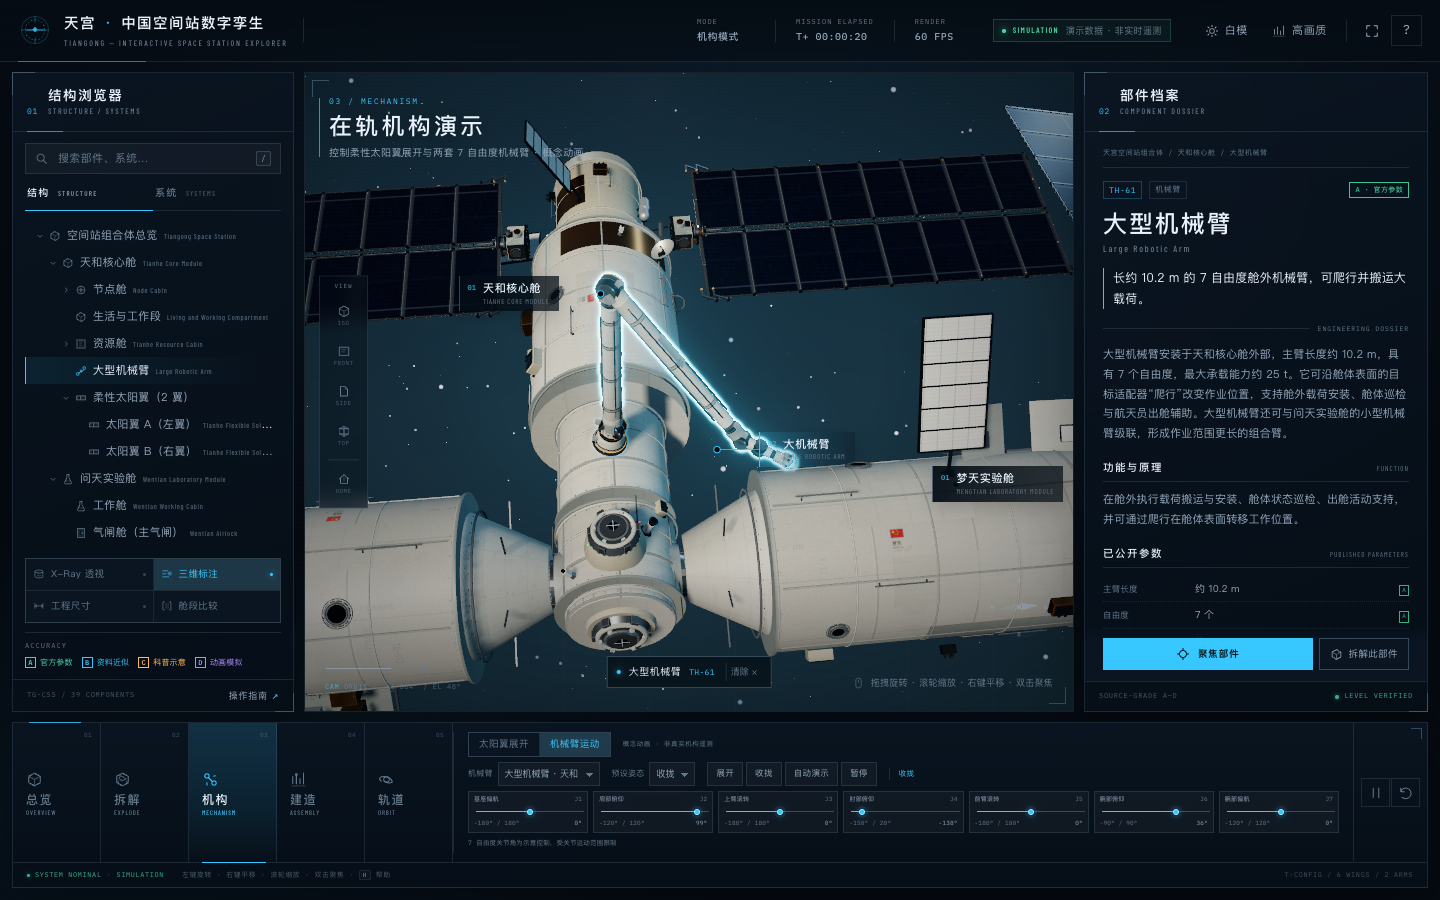
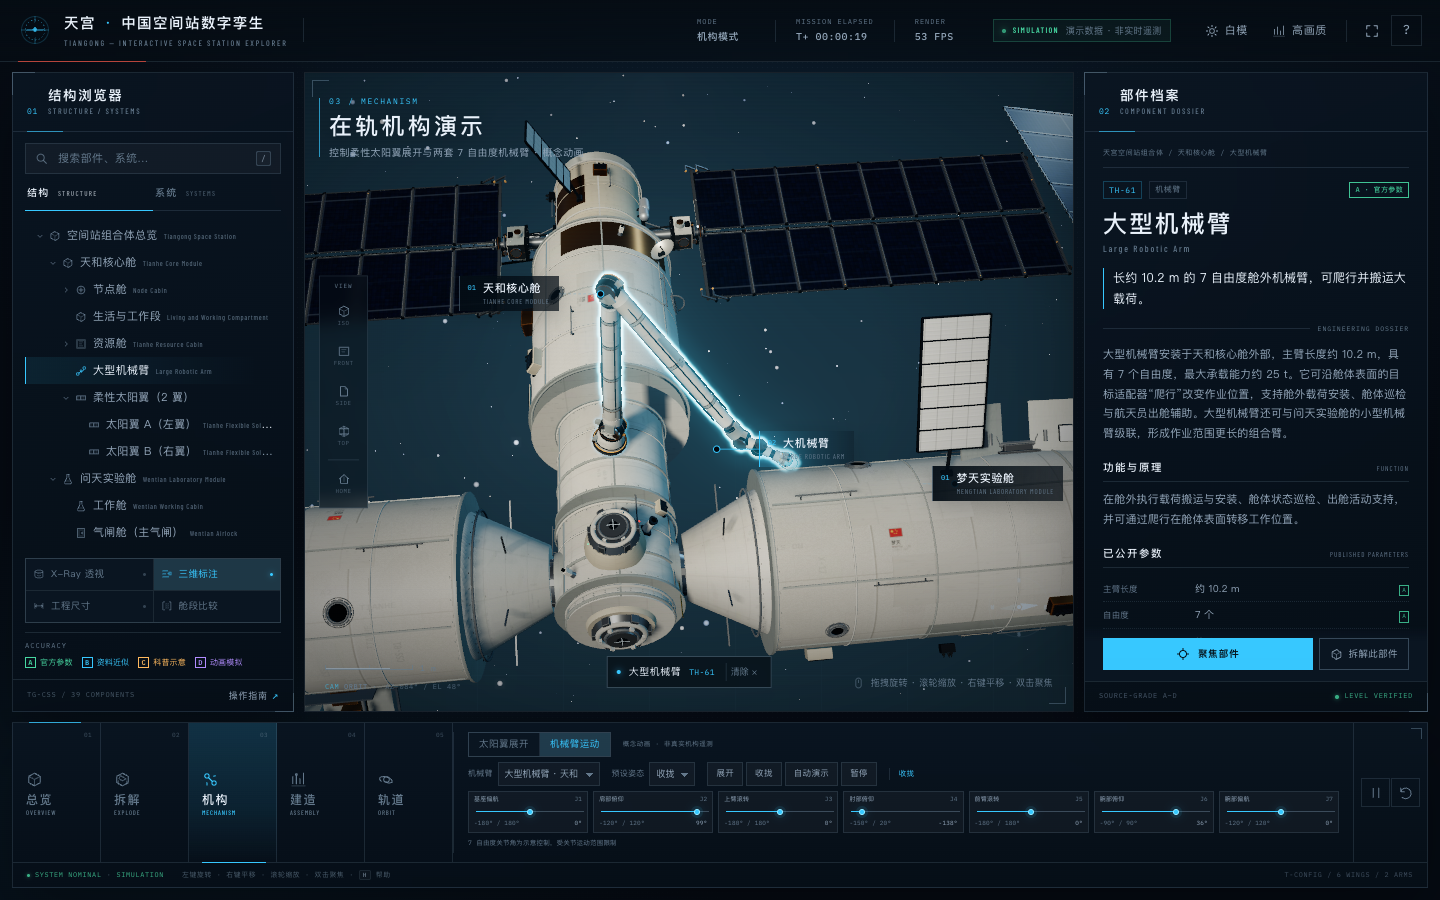
Fix structural attachment of all solar wings and other externally mounted assemblies

diff --git a/app.js b/app.js
@@ -26258,6 +26258,17 @@ void main() {
     const frameMat = metal(trim);
     const platform = new Group();
     platform.position.z = 0.45;
+    for (const sx of [-1, 1]) for (const sz of [-1, 1]) {
+      g.add(mesh(cylGeo(0.042, 0.052, 0.46, 8), frameMat, {
+        pos: [sx * width * 0.33, sz * length * 0.3, 0.23],
+        rot: [Math.PI / 2, 0, 0]
+      }));
+      g.add(mesh(boxGeo(0.12, 0.12, 0.035), frameMat, {
+        pos: [sx * width * 0.33, sz * length * 0.3, 0.02]
+      }));
+    }
+    g.add(mesh(boxGeo(width * 0.82, length * 0.64, 0.035), frameMat, { pos: [0, 0, 0.02] }));
+    g.add(mesh(cylGeo(0.07, 0.07, 0.18, 10), gold, { pos: [0, 0, 0.12], rot: [Math.PI / 2, 0, 0] }));
     for (const sx of [-1, 1]) {
       for (const sz of [-1, 1]) {
         platform.add(mesh(boxGeo(0.055, 0.055, length), frameMat, { pos: [sx * width / 2, 0, sz * length / 2] }));
@@ -26294,7 +26305,10 @@ void main() {
   function addDeployablePlatform(parent, { theta = 0, z = 0, radius = 2.1, material, trim }) {
     const g = new Group();
     orientOnCylinder(g, theta, z, radius, 0.02);
-    const hinge = mesh(cylGeo(0.07, 0.07, 0.6, 10), metal(trim), { rot: [0, 0, Math.PI / 2] });
+    g.add(mesh(roundedBoxGeo(1, 0.5, 0.06, 0.02), metal(trim), { pos: [0, 0, 0.01] }));
+    g.add(mesh(roundedBoxGeo(0.7, 0.3, 0.18, 0.02), metal(trim), { pos: [0, 0, 0.1] }));
+    const hinge = mesh(cylGeo(0.07, 0.07, 0.9, 10), metal(trim), { rot: [0, 0, Math.PI / 2] });
+    hinge.position.z = 0.18;
     g.add(hinge);
     for (const side of [-1, 1]) {
       const arm = new Group();
@@ -26302,6 +26316,9 @@ void main() {
       arm.position.x = side * 0.35;
       const panel = mesh(boxGeo(1.25, 0.05, 1.55), material, { pos: [side * 0.62, 0, 0.42] });
       arm.add(panel);
+      arm.add(cylinderBetween(new Vector3(0, 0, 0), new Vector3(side * 0.18, 0, 0.4), 0.03, metal(trim), 8));
+      arm.add(cylinderBetween(new Vector3(0, 0, 0), new Vector3(side * 0.86, 0, 0.4), 0.026, metal(trim), 8));
+      arm.add(mesh(cylGeo(0.055, 0.055, 0.28, 9), metal(trim), { pos: [side * 0.35, 0, 0.35], rot: [Math.PI / 2, 0, 0] }));
       for (let i = 0; i < 3; i++) {
         arm.add(mesh(boxGeo(1.2, 0.035, 0.03), metal(trim), { pos: [side * 0.62, 0, 0.05 + i * 0.4] }));
       }
@@ -28320,20 +28337,67 @@ void main() {
     wrapper.position.copy(position);
     wrapper.rotation.y = rotationY;
     parent.add(wrapper);
-    const boomDir = side;
-    const boom = mesh(cylGeo(0.075, 0.09, 1.05, 10), materials.metal, {
-      pos: [boomDir * 0.05, 0, 0],
-      rot: [0, 0, Math.PI / 2]
-    });
-    boom.rotation.z = 0;
-    boom.position.set(-boomDir * 0.45, 0, 0);
-    wrapper.add(boom);
-    for (const sy of [-1, 1]) {
-      wrapper.add(mesh(cylGeo(0.022, 0.026, 0.55, 8), materials.metalDark, {
-        pos: [-boomDir * 0.5, sy * 0.24, 0],
-        rot: [0, 0, Math.PI / 2 + sy * 0.25]
+    const sx = Math.sign(position.x) || 1;
+    const supportY = position.y;
+    const supportZ = position.z;
+    const hullX = sx * 1.36;
+    const rootX = sx * 2.4;
+    const support = new Group();
+    support.name = `solar-array-support-${side > 0 ? "A" : "B"}`;
+    parent.add(support);
+    support.add(mesh(boxGeo(0.16, 0.62, 0.9), materials.metalDark, {
+      pos: [sx * 1.4, supportY, supportZ],
+      rot: [0, 0, 0]
+    }));
+    support.add(mesh(roundedBoxGeo(0.055, 0.44, 0.66, 0.02), materials.gold, {
+      pos: [sx * 1.475, supportY, supportZ]
+    }));
+    for (const zy of [-0.28, 0.28]) {
+      support.add(mesh(cylGeo(0.024, 0.024, 0.055, 8), materials.metal, {
+        pos: [sx * 1.5, supportY + zy, supportZ],
+        rot: [0, 0, Math.PI / 2]
       }));
     }
+    const hubMidX = sx * ((Math.abs(hullX) + Math.abs(rootX)) / 2);
+    support.add(mesh(cylGeo(0.13, 0.17, Math.abs(rootX - hullX), 14), materials.metal, {
+      pos: [hubMidX, supportY, supportZ],
+      rot: [0, 0, Math.PI / 2]
+    }));
+    for (const dz of [-0.35, 0.35]) {
+      support.add(cylinderBetween(
+        new Vector3(hullX, supportY + 0.03, supportZ + dz * 0.82),
+        new Vector3(rootX, supportY + 0.05, supportZ + dz),
+        0.032,
+        materials.metalDark,
+        8
+      ));
+    }
+    for (const dz of [-0.42, 0.42]) {
+      support.add(cylinderBetween(
+        new Vector3(hullX, supportY + 0.28, supportZ + dz),
+        new Vector3(rootX, supportY - 0.12, supportZ + dz * 0.6),
+        0.026,
+        materials.metal,
+        8
+      ));
+    }
+    support.add(mesh(boxGeo(0.32, 0.5, 0.6), materials.metalDark, {
+      pos: [rootX + sx * 0.03, supportY, supportZ]
+    }));
+    support.add(mesh(cylGeo(0.24, 0.24, 0.16, 20), materials.metal, {
+      pos: [rootX + sx * 0.04, supportY, supportZ],
+      rot: [0, 0, Math.PI / 2]
+    }));
+    support.add(mesh(torusGeo(0.245, 0.022, 6, 24), materials.gold, {
+      pos: [rootX + sx * 0.02, supportY, supportZ],
+      rot: [0, Math.PI / 2, 0]
+    }));
+    support.add(tubeAlong([
+      [sx * 1.47, supportY - 0.24, supportZ + 0.16],
+      [sx * 1.85, supportY - 0.27, supportZ + 0.22],
+      [sx * 2.18, supportY - 0.14, supportZ + 0.18],
+      [rootX - sx * 0.12, supportY - 0.05, supportZ + 0.12]
+    ], 0.012, materials.carbon, 18));
     const wingRoot = new Group();
     wingRoot.rotation.y = 0;
     wingRoot.add(wingFactory.group);
@@ -28561,6 +28625,8 @@ void main() {
     armMount.position.set(0, 1.52, 4.2);
     armMount.rotation.set(0, -0.45, -0.2);
     living.add(armMount);
+    living.add(mesh(cylGeo(0.24, 0.3, 0.18, 16), materials.metalDark, { pos: [0, 1.41, 4.2] }));
+    living.add(mesh(torusGeo(0.27, 0.025, 6, 24), materials.metal, { pos: [0, 1.5, 4.2], rot: [Math.PI / 2, 0, 0] }));
     const armAnchor = new Object3D();
     armAnchor.position.set(2.5, 1.4, 0);
     armMount.add(armAnchor);
@@ -28779,6 +28845,9 @@ void main() {
       smallArmMount.position.set(0.9, 1.58, 12.75);
       smallArmMount.rotation.set(0, 0.2, 0.3);
       airlock.add(smallArmMount);
+      const smallHull = new Vector3(0.8, 1.41, 12.75);
+      airlock.add(cylinderBetween(smallHull, new Vector3(0.9, 1.58, 12.75), 0.16, materials.metalDark, 12));
+      airlock.add(mesh(roundedBoxGeo(0.36, 0.08, 0.36, 0.015), materials.metal, { pos: [0.82, 1.43, 12.75] }));
       const armAnchor = new Object3D();
       armAnchor.position.set(1.2, 1.2, 0);
       smallArmMount.add(armAnchor);

diff --git a/src/models/StationBuilder.js b/src/models/StationBuilder.js
@@ -5,7 +5,7 @@ import {
   addDishAntenna, addWhipAntenna, addStarTracker, addCameraUnit, addRadiator,
   addSolarDrive, addDockingPort, addBerthingAdapter, addExperimentPlatform,
   addDeployablePlatform, addTankCluster, addThrusterCluster, addGrille,
-  addWarningStripe, addDecal, createShenzhou, createTianzhou, tubeAlong
+  addWarningStripe, addDecal, createShenzhou, createTianzhou, tubeAlong, cylinderBetween
 } from './DetailFactory.js';
 import { createSolarWing } from './SolarWingFactory.js';
 import { createRoboticArm } from './RoboticArmFactory.js';
@@ -150,20 +150,66 @@ function buildArrayMount(materials, wingFactory, { id, moduleId, side, parent, p
   wrapper.rotation.y = rotationY;
   parent.add(wrapper);
 
-  // support boom and drive fittings outside the factory's own drive assembly
-  const boomDir = side;
-  const boom = mesh(cylGeo(0.075, 0.09, 1.05, 10), materials.metal, {
-    pos: [boomDir * 0.05, 0, 0], rot: [0, 0, Math.PI / 2]
-  });
-  // point the support beam from the hull to the wing root (local X)
-  boom.rotation.z = 0;
-  boom.position.set(-boomDir * 0.45, 0, 0);
-  wrapper.add(boom);
-  for (const sy of [-1, 1]) {
-    wrapper.add(mesh(cylGeo(0.022, 0.026, 0.55, 8), materials.metalDark, {
-      pos: [-boomDir * 0.5, sy * 0.24, 0], rot: [0, 0, Math.PI / 2 + sy * 0.25]
+  // ---- structural array support: bridge the resource-cabin hull to the drive root.
+  // Built in the RESOURCE section's coordinates (not in the mirrored wing wrapper),
+  // so both A and B sides connect identically to the hull.
+  const sx = Math.sign(position.x) || 1;
+  const supportY = position.y;
+  const supportZ = position.z;
+  const hullX = sx * 1.36;
+  const rootX = sx * 2.40;
+  const support = new THREE.Group();
+  support.name = `solar-array-support-${side > 0 ? 'A' : 'B'}`;
+  parent.add(support);
+  // hull mounting saddle: slightly embedded in the curved MLI surface
+  support.add(mesh(boxGeo(0.16, 0.62, 0.9), materials.metalDark, {
+    pos: [sx * 1.40, supportY, supportZ], rot: [0, 0, 0]
+  }));
+  support.add(mesh(roundedBoxGeo(0.055, 0.44, 0.66, 0.02), materials.gold, {
+    pos: [sx * 1.475, supportY, supportZ]
+  }));
+  for (const zy of [-0.28, 0.28]) {
+    support.add(mesh(cylGeo(0.024, 0.024, 0.055, 8), materials.metal, {
+      pos: [sx * 1.50, supportY + zy, supportZ], rot: [0, 0, Math.PI / 2]
     }));
   }
+  // main load beam and twin outriggers between hull and root fitting
+  const hubMidX = sx * ((Math.abs(hullX) + Math.abs(rootX)) / 2);
+  support.add(mesh(cylGeo(0.13, 0.17, Math.abs(rootX - hullX), 14), materials.metal, {
+    pos: [hubMidX, supportY, supportZ], rot: [0, 0, Math.PI / 2]
+  }));
+  for (const dz of [-0.35, 0.35]) {
+    support.add(cylinderBetween(
+      new THREE.Vector3(hullX, supportY + 0.03, supportZ + dz * 0.82),
+      new THREE.Vector3(rootX, supportY + 0.05, supportZ + dz),
+      0.032, materials.metalDark, 8
+    ));
+  }
+  // diagonal stiffness braces
+  for (const dz of [-0.42, 0.42]) {
+    support.add(cylinderBetween(
+      new THREE.Vector3(hullX, supportY + 0.28, supportZ + dz),
+      new THREE.Vector3(rootX, supportY - 0.12, supportZ + dz * 0.6),
+      0.026, materials.metal, 8
+    ));
+  }
+  // root fitting / rotary axis collar at the factory's inboard face
+  support.add(mesh(boxGeo(0.32, 0.5, 0.6), materials.metalDark, {
+    pos: [rootX + sx * 0.03, supportY, supportZ]
+  }));
+  support.add(mesh(cylGeo(0.24, 0.24, 0.16, 20), materials.metal, {
+    pos: [rootX + sx * 0.04, supportY, supportZ], rot: [0, 0, Math.PI / 2]
+  }));
+  support.add(mesh(torusGeo(0.245, 0.022, 6, 24), materials.gold, {
+    pos: [rootX + sx * 0.02, supportY, supportZ], rot: [0, Math.PI / 2, 0]
+  }));
+  // cable run down the support
+  support.add(tubeAlong([
+    [sx * 1.47, supportY - 0.24, supportZ + 0.16],
+    [sx * 1.85, supportY - 0.27, supportZ + 0.22],
+    [sx * 2.18, supportY - 0.14, supportZ + 0.18],
+    [rootX - sx * 0.12, supportY - 0.05, supportZ + 0.12]
+  ], 0.012, materials.carbon, 18));
   const wingRoot = new THREE.Group();
   // The wrapper's rotation already mirrors the outboard direction for side=-1.
   // The factory itself must stay in its contract pose (+X outward).
@@ -380,6 +426,9 @@ function buildTianhe(materials, ctx) {
   armMount.position.set(0, 1.52, 4.2);
   armMount.rotation.set(0, -0.45, -0.2);
   living.add(armMount);
+  // explicit pylon tying the arm pedestal into the small column's hull
+  living.add(mesh(cylGeo(0.24, 0.3, 0.18, 16), materials.metalDark, { pos: [0, 1.41, 4.2] }));
+  living.add(mesh(torusGeo(0.27, 0.025, 6, 24), materials.metal, { pos: [0, 1.5, 4.2], rot: [Math.PI / 2, 0, 0] }));
   const armAnchor = new THREE.Object3D();
   armAnchor.position.set(2.5, 1.4, 0);
   armMount.add(armAnchor);
@@ -556,6 +605,10 @@ function buildLab(materials, ctx, { variant }) {
     smallArmMount.position.set(0.9, 1.58, 12.75);
     smallArmMount.rotation.set(0, 0.2, 0.3);
     airlock.add(smallArmMount);
+    // radial pedestal from the airlock hull surface to the small-arm base
+    const smallHull = new THREE.Vector3(0.80, 1.41, 12.75);
+    airlock.add(cylinderBetween(smallHull, new THREE.Vector3(0.9, 1.58, 12.75), 0.16, materials.metalDark, 12));
+    airlock.add(mesh(roundedBoxGeo(0.36, 0.08, 0.36, 0.015), materials.metal, { pos: [0.82, 1.43, 12.75] }));
     const armAnchor = new THREE.Object3D();
     armAnchor.position.set(1.2, 1.2, 0);
     smallArmMount.add(armAnchor);

diff --git a/src/models/DetailFactory.js b/src/models/DetailFactory.js
@@ -514,6 +514,17 @@ export function addExperimentPlatform(parent, {
   const frameMat = metal(trim);
   const platform = new THREE.Group();
   platform.position.z = 0.45;
+  // support posts and base plate tying the exposed deck back to the hull
+  for (const sx of [-1, 1]) for (const sz of [-1, 1]) {
+    g.add(mesh(cylGeo(0.042, 0.052, 0.46, 8), frameMat, {
+      pos: [sx * width * 0.33, sz * length * 0.3, 0.23], rot: [Math.PI / 2, 0, 0]
+    }));
+    g.add(mesh(boxGeo(0.12, 0.12, 0.035), frameMat, {
+      pos: [sx * width * 0.33, sz * length * 0.3, 0.02]
+    }));
+  }
+  g.add(mesh(boxGeo(width * 0.82, length * 0.64, 0.035), frameMat, { pos: [0, 0, 0.02] }));
+  g.add(mesh(cylGeo(0.07, 0.07, 0.18, 10), gold, { pos: [0, 0, 0.12], rot: [Math.PI / 2, 0, 0] }));
   // main truss frame
   for (const sx of [-1, 1]) {
     for (const sz of [-1, 1]) {
@@ -556,7 +567,11 @@ export function addExperimentPlatform(parent, {
 export function addDeployablePlatform(parent, { theta = 0, z = 0, radius = 2.1, material, trim }) {
   const g = new THREE.Group();
   orientOnCylinder(g, theta, z, radius, 0.02);
-  const hinge = mesh(cylGeo(0.07, 0.07, 0.6, 10), metal(trim), { rot: [0, 0, Math.PI / 2] });
+  // hull interface pad + hinge barrel
+  g.add(mesh(roundedBoxGeo(1.0, 0.5, 0.06, 0.02), metal(trim), { pos: [0, 0, 0.01] }));
+  g.add(mesh(roundedBoxGeo(0.7, 0.3, 0.18, 0.02), metal(trim), { pos: [0, 0, 0.1] }));
+  const hinge = mesh(cylGeo(0.07, 0.07, 0.9, 10), metal(trim), { rot: [0, 0, Math.PI / 2] });
+  hinge.position.z = 0.18;
   g.add(hinge);
   for (const side of [-1, 1]) {
     const arm = new THREE.Group();
@@ -564,6 +579,10 @@ export function addDeployablePlatform(parent, { theta = 0, z = 0, radius = 2.1, 
     arm.position.x = side * 0.35;
     const panel = mesh(boxGeo(1.25, 0.05, 1.55), material, { pos: [side * 0.62, 0, 0.42] });
     arm.add(panel);
+    // hinge scissors and stand-off brackets (visible connection to the hull pad)
+    arm.add(cylinderBetween(new THREE.Vector3(0, 0, 0), new THREE.Vector3(side * 0.18, 0, 0.4), 0.03, metal(trim), 8));
+    arm.add(cylinderBetween(new THREE.Vector3(0, 0, 0), new THREE.Vector3(side * 0.86, 0, 0.4), 0.026, metal(trim), 8));
+    arm.add(mesh(cylGeo(0.055, 0.055, 0.28, 9), metal(trim), { pos: [side * 0.35, 0, 0.35], rot: [Math.PI / 2, 0, 0] }));
     for (let i = 0; i < 3; i++) {
       arm.add(mesh(boxGeo(1.2, 0.035, 0.03), metal(trim), { pos: [side * 0.62, 0, 0.05 + i * 0.4] }));
     }

diff --git a/README.md b/README.md
@@ -31,7 +31,7 @@ npm run build
 ## 主要功能
 
 - **程序化空间站模型**：天和核心舱、问天实验舱、梦天实验舱，按 2022 年 11 月三舱 T 字基本构型在轨装配；含节点舱、对接口/停泊口、舱段过渡环、多层隔热包覆、舷窗、舱门、散热器、天线、机械臂、太阳翼驱动机构、舱外载荷平台等。
-- **六套柔性太阳翼**：天和 2 × 约 67 m²，问天/梦天各 2 × 约 138 m² 级；折叠展开采用多节刚性阵板与伸缩桅杆的机械式联动，而不是整体缩放；支持逐翼展开/收拢、进度与速度控制、单翼受光角演示。
+- **六套柔性太阳翼**：天和 2 × 约 67 m²，问天/梦天各 2 × 约 138 m² 级；折叠展开采用多节刚性阵板与伸缩桅杆的机械式联动，而不是整体缩放；每套翼根部均通过舱壁鞍座、主承力梁、双撑杆、根部法兰和电缆走向连接到所属资源舱；支持逐翼展开/收拢、进度与速度控制、单翼受光角演示。
 - **两套机械臂**：约 10.2 m 大臂与约 5 m 小臂，各 7 自由度；关节滑杆带真实限位，支持展开、收拢、巡检、初始四组预设姿态，以及自动演示。行架、关节、末端执行器与相机/照明均为程序化细节。
 - **多级结构拆解**：0–100% 连续滑块；L1 舱段 / L2 分区 / L3 关键设备三层拆解；全部拆解、全部组装、分步、暂停/继续、仅拆当前选中部件；爆炸位移全部由基础变换重新计算，不会累计漂移。
 - **在轨建造历程**：6 个公开任务节点，展示天和入轨、问天对接与转位、梦天对接与转位，最终形成 T 字构型；为科普重现，不是轨道动力学模拟。
@@ -106,12 +106,15 @@ screenshots/               最终效果截图
 - 页面加载、三舱渲染、标注布局与相机数值；
 - 结构树选择、搜索、系统高亮、X-Ray、白模主题、工程尺寸；
 - 射线拾取、悬停提示、三维选择；
+- 六套太阳翼根部结构连接审计（A/B 翼与三舱资源舱）；
 - 拆解滑块、全拆/全装、单部件拆解；
 - 太阳翼展开/收拢与进度联动、7 关节滑杆、预设姿态、自动演示；
 - 建造时间轴与 T 字构型完成状态；
 - 轨道模式地球与自动巡航；
 - 帮助/比较弹窗、键盘快捷键、性能模式、重置；
 - `file://` 直接打开、390 × 844 手机与平板布局、无横向溢出、无运行时错误。
+
+结构复核同时覆盖了外部载荷平台、两套机械臂基座、展开式载荷平台、对接/停泊口及停靠飞船等外部装配关系；对发现的支撑缺失一并补齐。
 
 桌面端高画质在测试机（Apple M4 / Chrome Metal）上稳定约 58–60 FPS；性能模式会进一步降低像素比并关闭实时阴影和后处理。
 
